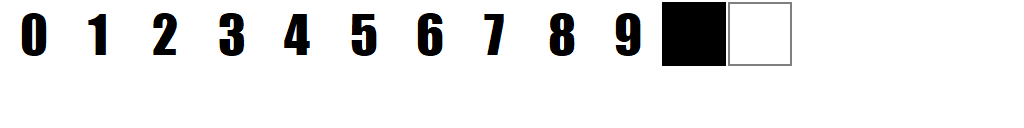
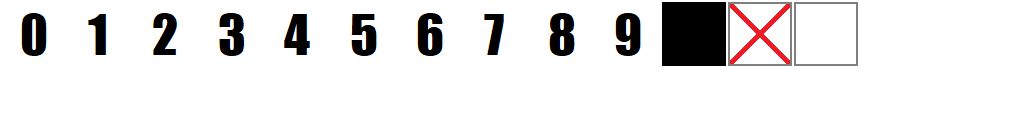
- Added "Mark Tile" Functionality - Changed LeaderBoardScreen Text Size

Changed region(s): [[0.6875, 0.0312, 0.7812, 0.5], [0.7812, 0.5, 0.8438, 0.5312], [0.7812, 0.0, 0.8438, 0.0312]]

diff --git a/core/src/com/badlogic/nonogram/scene/GameScreen.java b/core/src/com/badlogic/nonogram/scene/GameScreen.java
@@ -8,12 +8,13 @@ import com.badlogic.gdx.graphics.g2d.TextureAtlas;
 import com.badlogic.gdx.scenes.scene2d.Actor;
 import com.badlogic.gdx.scenes.scene2d.InputEvent;
 import com.badlogic.gdx.scenes.scene2d.Stage;
-import com.badlogic.gdx.scenes.scene2d.ui.ImageButton;
+import com.badlogic.gdx.scenes.scene2d.ui.Image;
 import com.badlogic.gdx.scenes.scene2d.ui.Label;
 import com.badlogic.gdx.scenes.scene2d.ui.Skin;
 import com.badlogic.gdx.scenes.scene2d.ui.Table;
 import com.badlogic.gdx.scenes.scene2d.ui.TextButton;
 import com.badlogic.gdx.scenes.scene2d.ui.TextField;
+import com.badlogic.gdx.scenes.scene2d.utils.ActorGestureListener;
 import com.badlogic.gdx.scenes.scene2d.utils.ClickListener;
 import com.badlogic.gdx.scenes.scene2d.utils.Drawable;
 import com.badlogic.gdx.scenes.scene2d.utils.TextureRegionDrawable;
@@ -30,7 +31,6 @@ import com.badlogic.nonogram.config.GameConfig;
 import com.badlogic.nonogram.dialog.GameDialog;
 
 import java.util.Arrays;
-import java.util.List;
 import java.util.Random;
 
 
@@ -50,8 +50,11 @@ public class GameScreen extends ScreenAdapter {
     private TextureAtlas atlas;
 
     private Label statusLabel;
+    Drawable whiteTileDrawable;
+    Drawable blackTileDrawable;
+    Drawable markedTileDrawable;
 
-    final ImageButton[][] tiles = new ImageButton[8][8];
+    final Image[][] tiles = new Image[8][8];
     Array<Array<Float>> tileValues;
 
     double timeRemaining;
@@ -75,6 +78,7 @@ public class GameScreen extends ScreenAdapter {
         else
             tileValues = generateNonogramTiles();
         timeRemaining = GameManager.INSTANCE.getTimeLimit();
+
         tileClickSound = assetManager.get(AssetDescriptors.TILE_CLICK_SOUND);
         buttonClickSound = assetManager.get(AssetDescriptors.BUTTON_CLICK_SOUND);
         solvedSound = assetManager.get(AssetDescriptors.SOLVED_SOUND);
@@ -88,6 +92,10 @@ public class GameScreen extends ScreenAdapter {
 
         skin = assetManager.get(AssetDescriptors.UI_SKIN);
         atlas = assetManager.get(AssetDescriptors.SCENE2D);
+
+        whiteTileDrawable = new TextureRegionDrawable(atlas.findRegion(RegionNames.WHITE_TILE));
+        blackTileDrawable = new TextureRegionDrawable(atlas.findRegion(RegionNames.BLACK_TILE));
+        markedTileDrawable = new TextureRegionDrawable(atlas.findRegion(RegionNames.MARKED_TILE));
 
         initGameOverDialog();
         initSolvedGameDialog();
@@ -147,8 +155,6 @@ public class GameScreen extends ScreenAdapter {
 
         Table tileTable = new Table();
         tileTable.defaults();
-        Drawable drawable = new TextureRegionDrawable(atlas.findRegion(RegionNames.WHITE_TILE));
-        Drawable drawable2 = new TextureRegionDrawable(atlas.findRegion(RegionNames.BLACK_TILE));
 
         for (int i = 0; i < 8; i++)
         {
@@ -157,16 +163,30 @@ public class GameScreen extends ScreenAdapter {
                 if(i < 3 && j < 3)
                     tiles[i][j] = null;
                 else if(j < 3 || i < 3)
-                    tiles[i][j] = new ImageButton(new TextureRegionDrawable(atlas.findRegion(String.valueOf(tileValues.get(i).get(j).intValue()))));
+                    tiles[i][j] = new Image(new TextureRegionDrawable(atlas.findRegion(String.valueOf(tileValues.get(i).get(j).intValue()))));
                 else
                 {
-                    tiles[i][j] = new ImageButton(drawable,drawable,drawable2);
-                    tiles[i][j].addListener(new ClickListener() {
+                    tiles[i][j] = new Image(whiteTileDrawable);
+                    tiles[i][j].setName("0.0");
+                    final int finalI = i;
+                    final int finalJ = j;
+                    tiles[i][j].addListener(new ActorGestureListener() {
                         @Override
-                        public void clicked(InputEvent event, float x, float y) {
+                        public void tap(InputEvent event, float x, float y, int count, int button) {
                             long id = tileClickSound.play();
                             tileClickSound.setVolume(id,0.2f);
+                            toogleTileState(finalI,finalJ);
                             checkIfSolved();
+                        }
+
+                        @Override
+                        public boolean longPress(Actor actor, float x, float y) {
+                            long id = tileClickSound.play();
+                            tileClickSound.setVolume(id,0.2f);
+                            tiles[finalI][finalJ].setName("0.0");
+                            tiles[finalI][finalJ].setDrawable(markedTileDrawable);
+                            checkIfSolved();
+                            return true;
                         }
                     });
                 }
@@ -202,7 +222,7 @@ public class GameScreen extends ScreenAdapter {
     {
         for (int i = 3; i < tileValues.size; i++)
             for (int j = 3; j < tileValues.get(0).size; j++)
-                    if (tiles[i][j].isChecked() != (tileValues.get(i).get(j) == 1))
+                    if (!tiles[i][j].getName().equals((tileValues.get(i).get(j)).toString()))
                         return;
         solvedSound.play();
         gameStatus = GameStatus.solved;
@@ -211,14 +231,7 @@ public class GameScreen extends ScreenAdapter {
         gameSolvedDialog.show(stage);
         for (int i = 3; i < tileValues.size; i++)
             for (int j = 3; j < tileValues.get(0).size; j++) {
-                final int finalI = i;
-                final int finalJ = j;
-                tiles[i][j].addListener(new ClickListener() {
-                    @Override
-                    public void clicked(InputEvent event, float x, float y) {
-                        tiles[finalI][finalJ].toggle();
-                    }
-                });
+                tiles[i][j].clearListeners();
             }
     }
 
@@ -324,4 +337,17 @@ public class GameScreen extends ScreenAdapter {
         return nonogram;
     }
 
+    void toogleTileState(int i, int j)
+    {
+        if (tiles[i][j].getName().equals("1.0"))
+        {
+            tiles[i][j].setName("0.0");
+            tiles[i][j].setDrawable(whiteTileDrawable);
+        }
+        else
+        {
+            tiles[i][j].setName("1.0");
+            tiles[i][j].setDrawable(blackTileDrawable);
+        }
+    }
 }

diff --git a/core/src/com/badlogic/nonogram/scene/CreateNonogramScene.java b/core/src/com/badlogic/nonogram/scene/CreateNonogramScene.java
@@ -9,6 +9,7 @@ import com.badlogic.gdx.graphics.g2d.TextureAtlas;
 import com.badlogic.gdx.scenes.scene2d.Actor;
 import com.badlogic.gdx.scenes.scene2d.InputEvent;
 import com.badlogic.gdx.scenes.scene2d.Stage;
+import com.badlogic.gdx.scenes.scene2d.ui.Image;
 import com.badlogic.gdx.scenes.scene2d.ui.ImageButton;
 import com.badlogic.gdx.scenes.scene2d.ui.Label;
 import com.badlogic.gdx.scenes.scene2d.ui.Skin;
@@ -41,12 +42,16 @@ public class CreateNonogramScene extends ScreenAdapter {
     private Stage stage;
     private Skin skin;
     private TextureAtlas atlas;
+
+    Drawable whiteTileDrawable;
+    Drawable blackTileDrawable;
+
     private final Sound buttonClickSound;
     private final Sound tileClickSound;
 
 
 
-    final ImageButton[][] tiles = new ImageButton[5][5];
+    final Image[][] tiles = new Image[5][5];
     Array<Array<Float>> tileValues = new Array<>();
 
     public CreateNonogramScene(Nonogram game) {
@@ -63,6 +68,9 @@ public class CreateNonogramScene extends ScreenAdapter {
 
         skin = assetManager.get(AssetDescriptors.UI_SKIN);
         atlas = assetManager.get(AssetDescriptors.SCENE2D);
+
+        whiteTileDrawable = new TextureRegionDrawable(atlas.findRegion(RegionNames.WHITE_TILE));
+        blackTileDrawable = new TextureRegionDrawable(atlas.findRegion(RegionNames.BLACK_TILE));
 
         Gdx.input.setInputProcessor(stage);
         stage.addActor(createGame());
@@ -101,35 +109,26 @@ public class CreateNonogramScene extends ScreenAdapter {
 
         Table tileTable = new Table();
         tileTable.defaults();
-        Drawable drawable = new TextureRegionDrawable(atlas.findRegion(RegionNames.WHITE_TILE));
-        Drawable drawable2 = new TextureRegionDrawable(atlas.findRegion(RegionNames.BLACK_TILE));
 
         for (int i = 0; i < 5; i++)
         {
             for (int j = 0; j < 5; j++)
             {
-                tiles[i][j] = new ImageButton(drawable,drawable,drawable2);
+                final int finalI = i, finalJ = j;
+                tiles[i][j] = new Image(whiteTileDrawable);
+                tiles[i][j].setName("0.0");
                 tileTable.add(tiles[i][j]).size(55);
                 tiles[i][j].addListener(new ClickListener() {
                     @Override
                     public void clicked(InputEvent event, float x, float y) {
-                        tileClickSound.play();
+                        long id = tileClickSound.play();
+                        tileClickSound.setVolume(id,0.2f);
+                        switchTileState(finalI,finalJ);
                     }
                 });
             }
             tileTable.row();
         }
-
-        for (int i = 0; i < tileValues.size; i++)
-            for (int j = 0; j < tileValues.get(0).size; j++) {
-                final int finalI = i, finalJ = j;
-                tiles[i][j].addListener(new ClickListener() {
-                    @Override
-                    public void clicked(InputEvent event, float x, float y) {
-                        tiles[finalI][finalJ].toggle();
-                    }
-                });
-            }
 
         tileTable.center();
         table.add(tileTable).colspan(2).row();
@@ -146,7 +145,7 @@ public class CreateNonogramScene extends ScreenAdapter {
                 {
                     tileValues.add(new Array<Float>());
                     for(int j = 0; j < 5;j++)
-                        tileValues.get(i).add(tiles[i][j].isChecked() ? 1f : 0f);
+                        tileValues.get(i).add(tiles[i][j].getName().equals("0.0") ? 0f : 1f);
                 }
                 GameManager.INSTANCE.saveNonogram(tileValues);
                 game.setScreen(new MenuScreen(game));
@@ -172,5 +171,19 @@ public class CreateNonogramScene extends ScreenAdapter {
         table.setFillParent(true);
         table.pack();
         return table;
+    }
+
+    void switchTileState(int i, int j)
+    {
+        if (tiles[i][j].getName().equals("1.0"))
+        {
+            tiles[i][j].setName("0.0");
+            tiles[i][j].setDrawable(whiteTileDrawable);
+        }
+        else
+        {
+            tiles[i][j].setName("1.0");
+            tiles[i][j].setDrawable(blackTileDrawable);
+        }
     }
 }

diff --git a/core/src/com/badlogic/nonogram/scene/LeaderBoardScreen.java b/core/src/com/badlogic/nonogram/scene/LeaderBoardScreen.java
@@ -85,18 +85,32 @@ public class LeaderBoardScreen extends ScreenAdapter {
         Table table = new Table();
         table.defaults().pad(2);
         table.pad(20);
-        TypingLabel topLabel = new TypingLabel("{EASE}LeaderBoard",skin.get("white", Label.LabelStyle.class));
-        topLabel.setAlignment(Align.center);
-        topLabel.setFontScale(4);
+
+        TypingLabel topTitle = new TypingLabel("{EASE}LeaderBoard",skin.get("white", Label.LabelStyle.class));
+        Label nameTitle = new Label("Name", skin.get("white", Label.LabelStyle.class));
+        Label timeTitle = new Label("Time", skin.get("white", Label.LabelStyle.class));
+
+        topTitle.setAlignment(Align.center);
+        topTitle.setFontScale(4);
+        nameTitle.setFontScale(1.5f);
+        timeTitle.setFontScale(1.5f);
+
+
         table.row().colspan(2);
-        table.add(topLabel);
+        table.add(topTitle);
         table.row().padBottom(10);
-        table.add(new Label("Name", skin.get("white", Label.LabelStyle.class))).align(Align.left);
-        table.add(new Label("Time", skin.get("white", Label.LabelStyle.class))).align(Align.right);
+        table.add(nameTitle).align(Align.left);
+        table.add(timeTitle).align(Align.right);
         table.row();
         for (int i = 0; i < leaderBoard.names.size();i++) {
-            table.add(new Label(leaderBoard.names.get(i), skin.get("white", Label.LabelStyle.class))).align(Align.left);
-            table.add(new Label(leaderBoard.times.get(i), skin.get("white", Label.LabelStyle.class))).align(Align.right);
+            Label nameLabel = new Label(leaderBoard.names.get(i), skin.get("white", Label.LabelStyle.class));
+            Label timeLabel = new Label(leaderBoard.times.get(i), skin.get("white", Label.LabelStyle.class));
+
+            nameLabel.setFontScale(1.5f);
+            timeLabel.setFontScale(1.5f);
+
+            table.add(nameLabel).align(Align.left);
+            table.add(timeLabel).align(Align.right);
             table.row();
         }
         table.row().colspan(2);

diff --git a/core/src/com/badlogic/nonogram/scene/IntroScreen.java b/core/src/com/badlogic/nonogram/scene/IntroScreen.java
@@ -74,7 +74,6 @@ public class IntroScreen extends ScreenAdapter {
 
         duration += delta;
 
-        // go to the MenuScreen after INTRO_DURATION_IN_SEC seconds
         if (duration > INTRO_DURATION_IN_SEC) {
             game.setScreen(new MenuScreen(game));
         }
@@ -96,6 +95,7 @@ public class IntroScreen extends ScreenAdapter {
 
     private Actor createTable() {
         Table table = new Table();
+
 
         TypingLabel nonogramLabel = new TypingLabel(" {SPEED=0.38}{WAIT=0.5}Nonogram {WAIT=1}",skin.get("white", Label.LabelStyle.class));
         nonogramLabel.setFontScale(4);
@@ -123,6 +123,7 @@ public class IntroScreen extends ScreenAdapter {
         key.setScale(1.2f);
         key.addAction(
                 Actions.sequence(
+                        Actions.delay(1),
                         Actions.parallel(
                                 Actions.rotateBy(-720, 2f),
                                 Actions.moveTo(viewport.getWorldWidth() + 50, 290, 2f)

diff --git a/core/src/com/badlogic/nonogram/scene/MenuScreen.java b/core/src/com/badlogic/nonogram/scene/MenuScreen.java
@@ -43,6 +43,7 @@ public class MenuScreen extends ScreenAdapter {
         stage = new Stage(viewport, game.getBatch());
 
         //TODO: ZBRISI KO KONCAS Z DELOM
+        /*
         assetManager.load(AssetDescriptors.UI_FONT);
         assetManager.load(AssetDescriptors.UI_FONT_BIG);
         assetManager.load(AssetDescriptors.UI_SKIN);
@@ -52,6 +53,8 @@ public class MenuScreen extends ScreenAdapter {
         assetManager.load(AssetDescriptors.GAME_OVER_SOUND);
         assetManager.load(AssetDescriptors.SOLVED_SOUND);
         assetManager.finishLoading();
+
+         */
         buttonClickSound = assetManager.get(AssetDescriptors.BUTTON_CLICK_SOUND);
 
         skin = assetManager.get(AssetDescriptors.UI_SKIN);

diff --git a/core/src/com/badlogic/nonogram/assets/RegionNames.java b/core/src/com/badlogic/nonogram/assets/RegionNames.java
@@ -5,6 +5,7 @@ public class RegionNames {
     // scene2d.atlas
     public static final String WHITE_TILE = "white";
     public static final String BLACK_TILE = "black";
+    public static final String MARKED_TILE = "marked";
     public static final String TILE_0 = "0";
     public static final String TILE_1 = "1";
     public static final String TILE_2 = "2";

diff --git a/core/src/com/badlogic/nonogram/Nonogram.java b/core/src/com/badlogic/nonogram/Nonogram.java
@@ -27,8 +27,8 @@ public class Nonogram extends Game {
 		assetManager.getLogger().setLevel(Logger.DEBUG);
 
 		batch = new SpriteBatch();
-		//setScreen(new IntroScreen(this));
-		setScreen(new MenuScreen(this));
+		setScreen(new IntroScreen(this));
+		//setScreen(new MenuScreen(this));
 	}
 	
 	@Override
